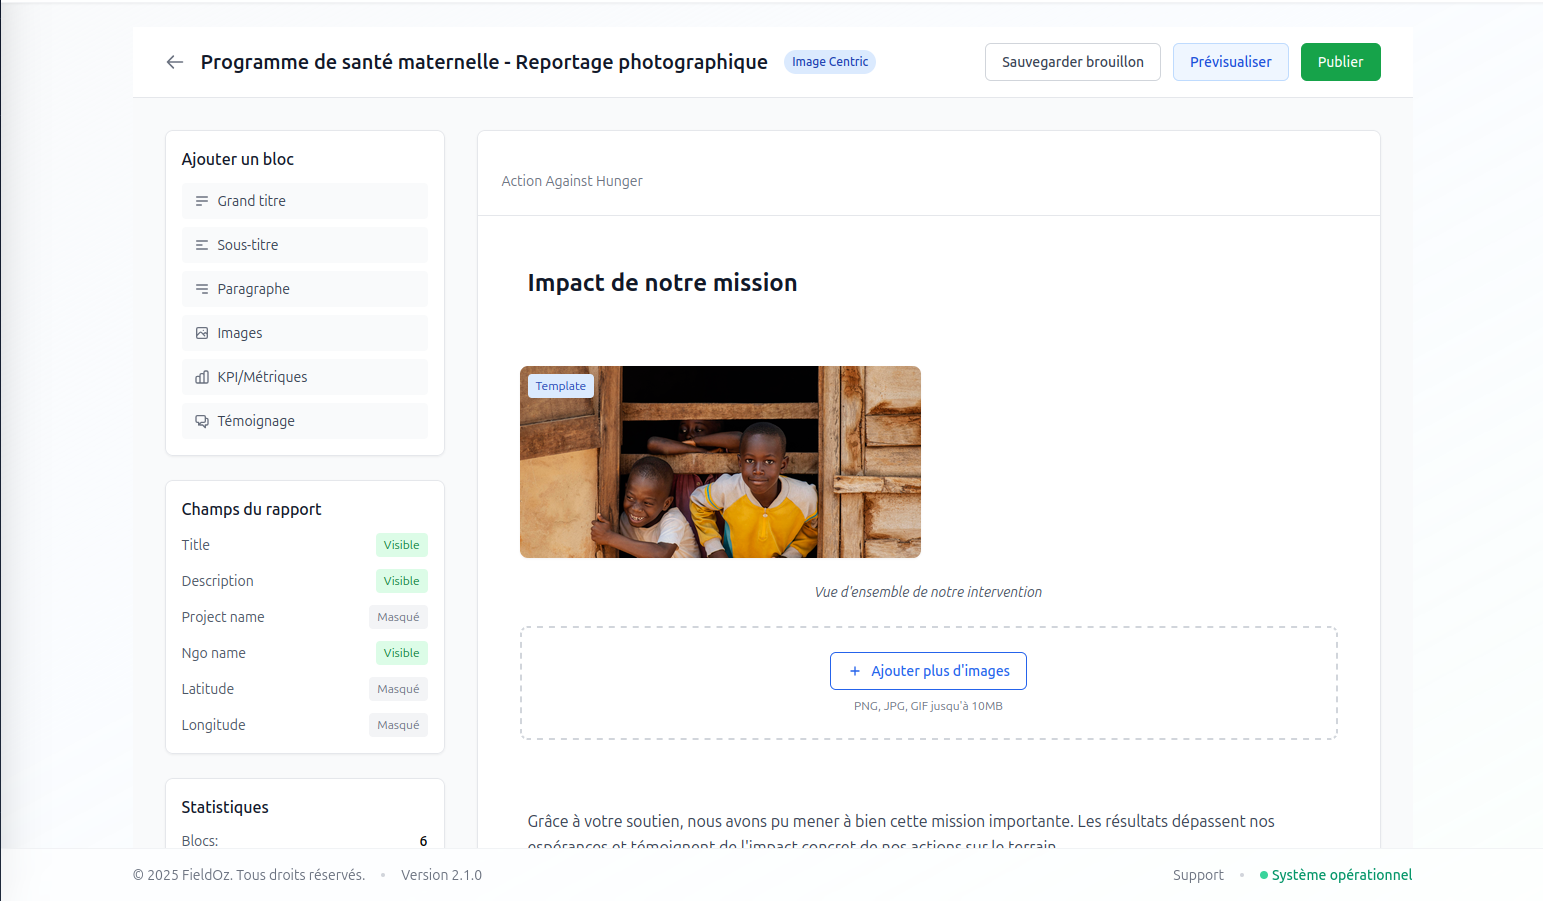
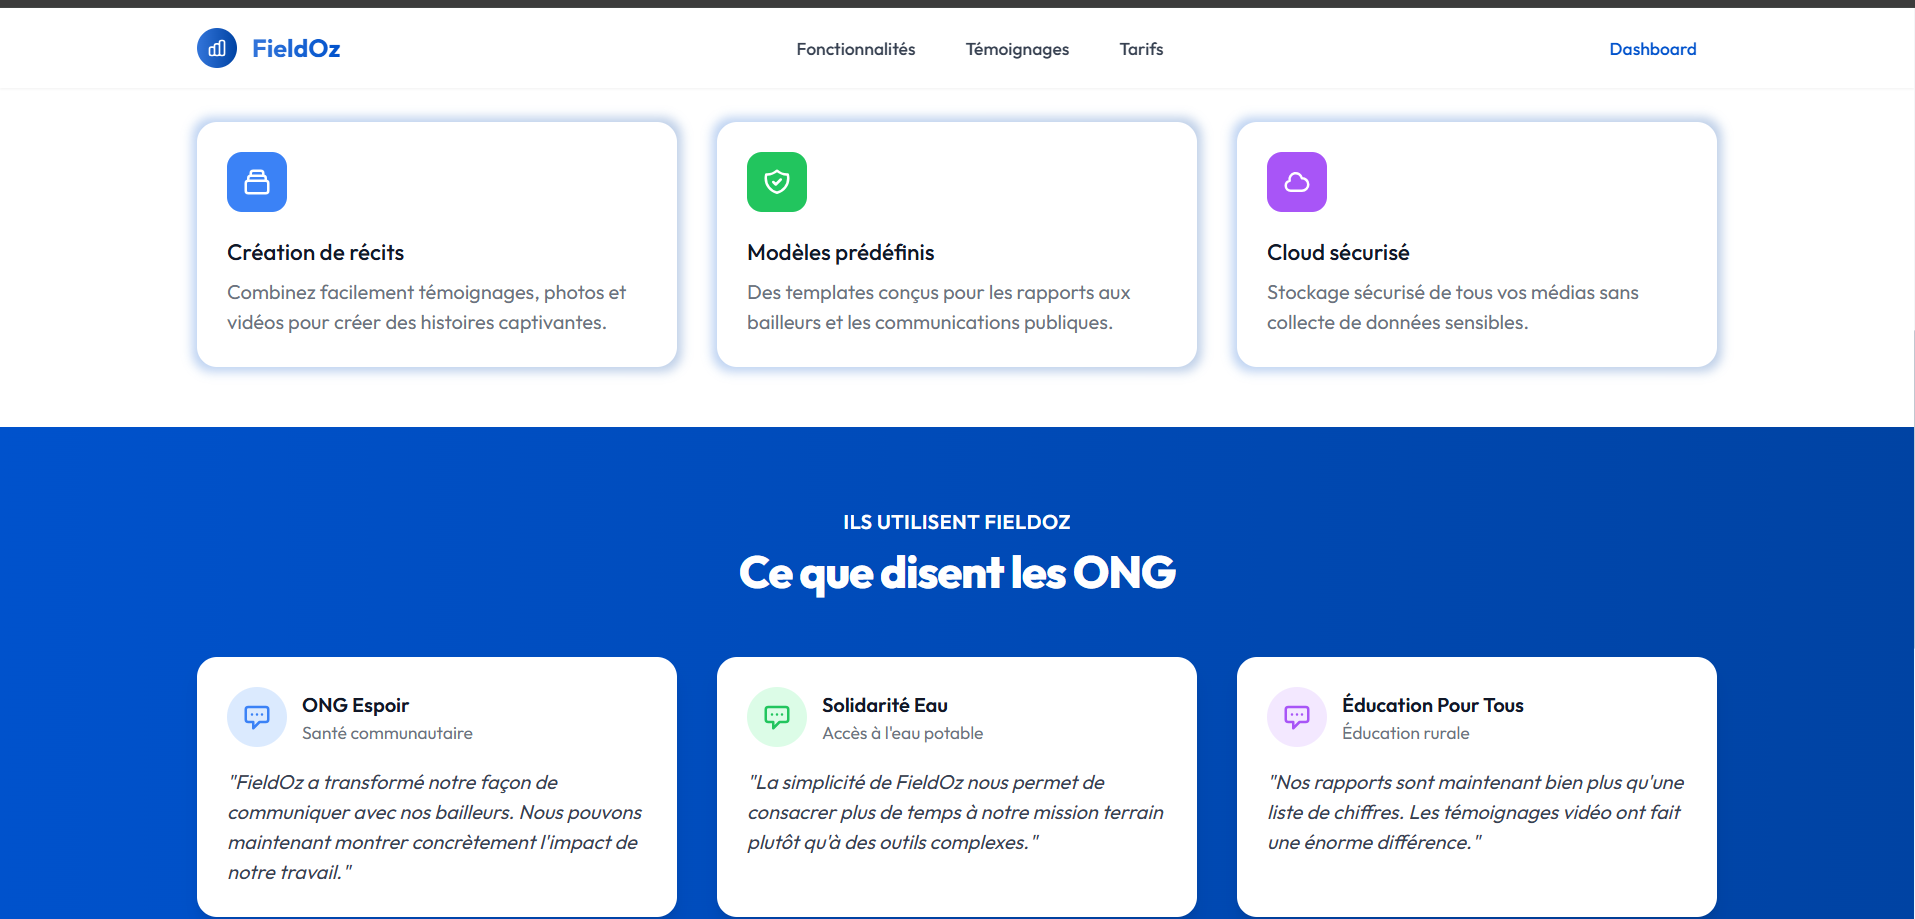
Gallery

diff --git a/assets/script.js b/assets/script.js
@@ -21,7 +21,11 @@ function app() {
         // Lightbox
         lightbox: {
             show: false,
-            image: ''
+            images: [],
+            currentIndex: 0,
+            get currentImage() {
+                return this.images[this.currentIndex] || '';
+            }
         },
 
         // Projects data
@@ -62,7 +66,10 @@ function app() {
                 images: [
                     "assets/projects/fieldoz/1.png",
                     "assets/projects/fieldoz/2.png",
+                    "assets/projects/fieldoz/3.png",
                     "assets/projects/fieldoz/4.png",
+                    "assets/projects/fieldoz/5.png",
+                    "assets/projects/fieldoz/6.png",
                 ],
                 links: {
                     github: null,
@@ -490,7 +497,7 @@ function app() {
             // Skip index 0 (featured project)
             const rest = this.projects.slice(1);
             if (this.activeFilter === 'all') return rest;
-            if (this.activeFilter === 'web')    return rest.filter(p => p.type.toLowerCase().includes('web'));
+            if (this.activeFilter === 'web') return rest.filter(p => p.type.toLowerCase().includes('web'));
             if (this.activeFilter === 'mobile') return rest.filter(p => p.type.toLowerCase().includes('mobile'));
             return rest;
         },
@@ -528,31 +535,50 @@ function app() {
 
 
 
-        openLightbox(image) {
+        openLightbox(images, index = 0) {
+            this.lightbox.images = Array.isArray(images) ? images : [images];
+            this.lightbox.currentIndex = index;
             this.lightbox.show = true;
-            this.lightbox.image = image;
             document.body.style.overflow = 'hidden';
 
-            // Détection automatique de l'orientation
-            const img = new Image();
-            img.src = image;
-            img.onload = () => {
-                if (img.height > img.width) {
-                    // Image portrait
-                    document.querySelector('.lightbox-image')?.classList.add('portrait');
-                    document.querySelector('.lightbox-image')?.classList.remove('landscape');
-                } else {
-                    // Image paysage
-                    document.querySelector('.lightbox-image')?.classList.add('landscape');
-                    document.querySelector('.lightbox-image')?.classList.remove('portrait');
-                }
-            };
+            this.detectOrientation();
         },
 
         closeLightbox() {
             this.lightbox.show = false;
-            this.lightbox.image = '';
             document.body.style.overflow = 'auto';
+        },
+
+        nextImage() {
+            if (this.lightbox.images.length <= 1) return;
+            this.lightbox.currentIndex = (this.lightbox.currentIndex + 1) % this.lightbox.images.length;
+            this.detectOrientation();
+        },
+
+        prevImage() {
+            if (this.lightbox.images.length <= 1) return;
+            this.lightbox.currentIndex = (this.lightbox.currentIndex - 1 + this.lightbox.images.length) % this.lightbox.images.length;
+            this.detectOrientation();
+        },
+
+        detectOrientation() {
+            if (!this.lightbox.currentImage) return;
+            const img = new Image();
+            img.src = this.lightbox.currentImage;
+            img.onload = () => {
+                const lbImg = document.querySelector('.lightbox-image');
+                if (lbImg) {
+                    if (img.height > img.width) {
+                        // Image portrait
+                        lbImg.classList.add('portrait');
+                        lbImg.classList.remove('landscape');
+                    } else {
+                        // Image paysage
+                        lbImg.classList.add('landscape');
+                        lbImg.classList.remove('portrait');
+                    }
+                }
+            };
         },
 
         validateForm() {
